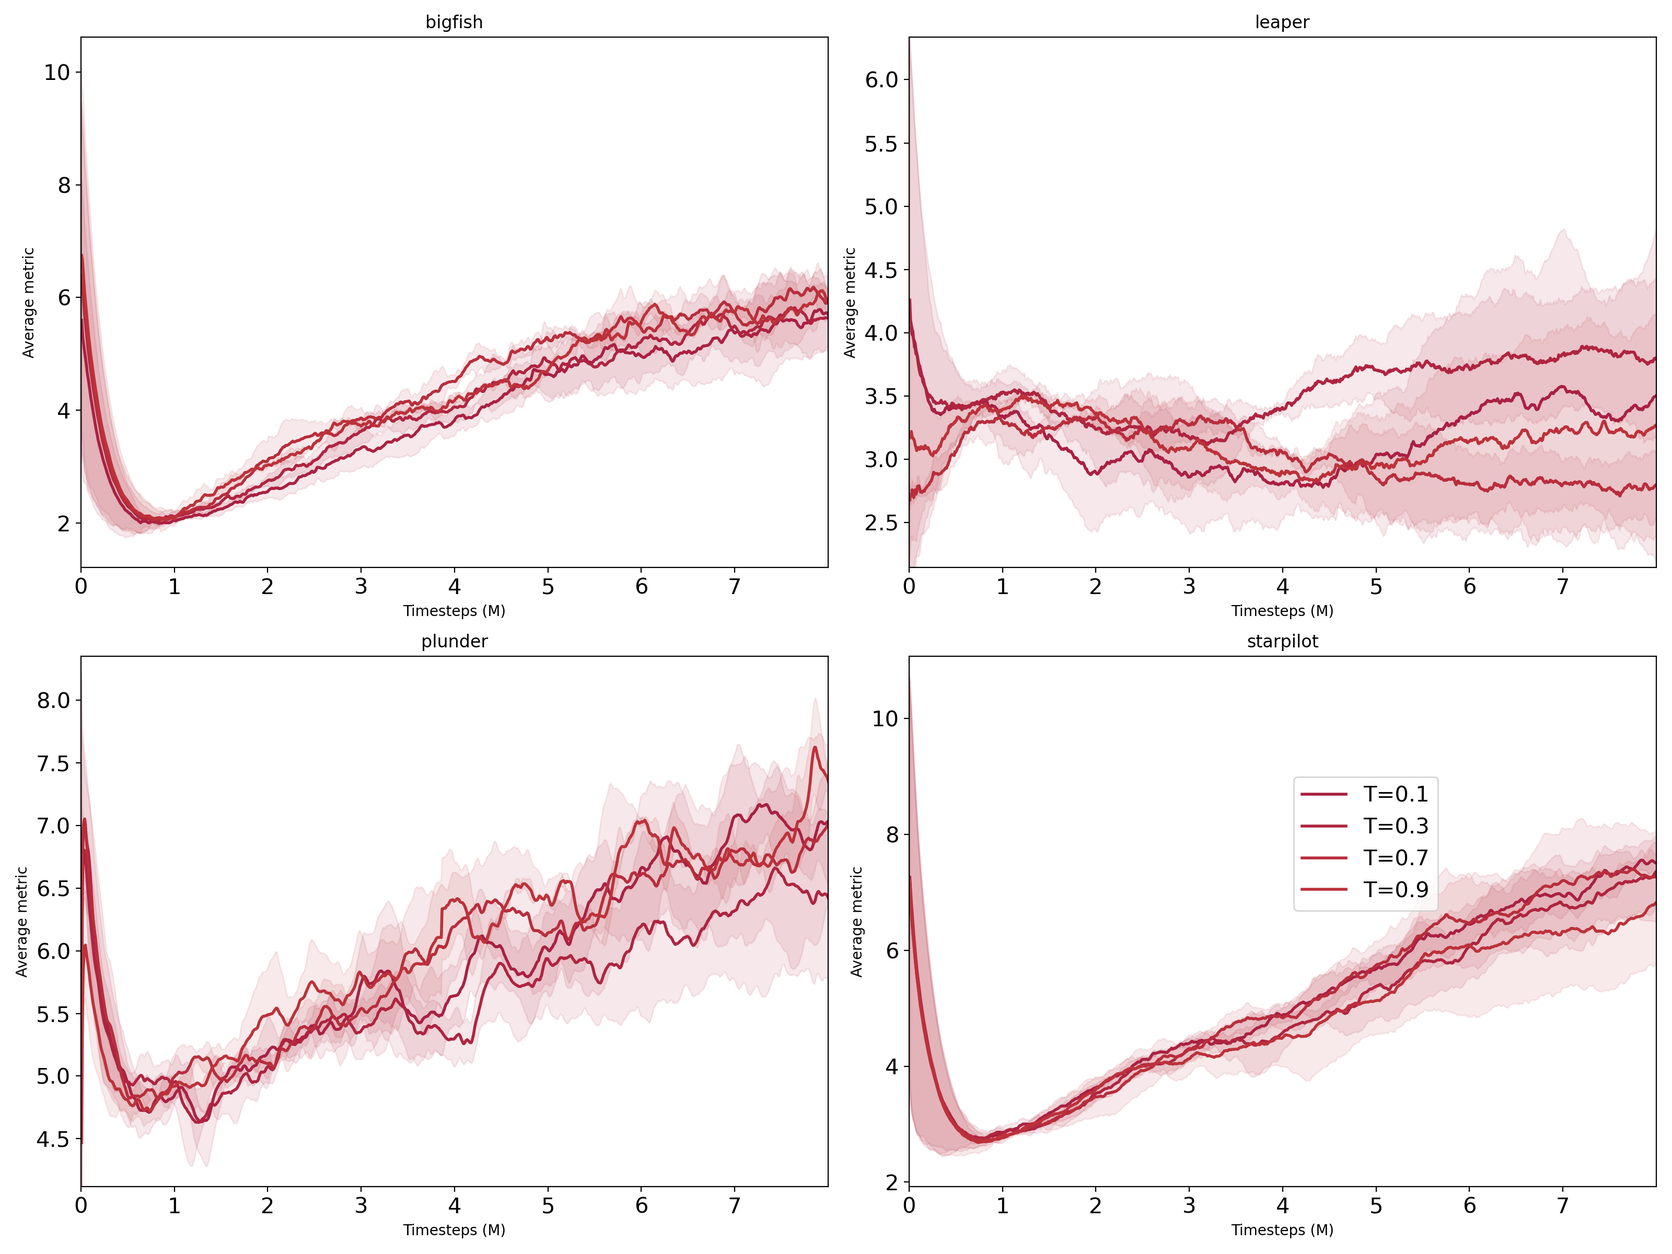
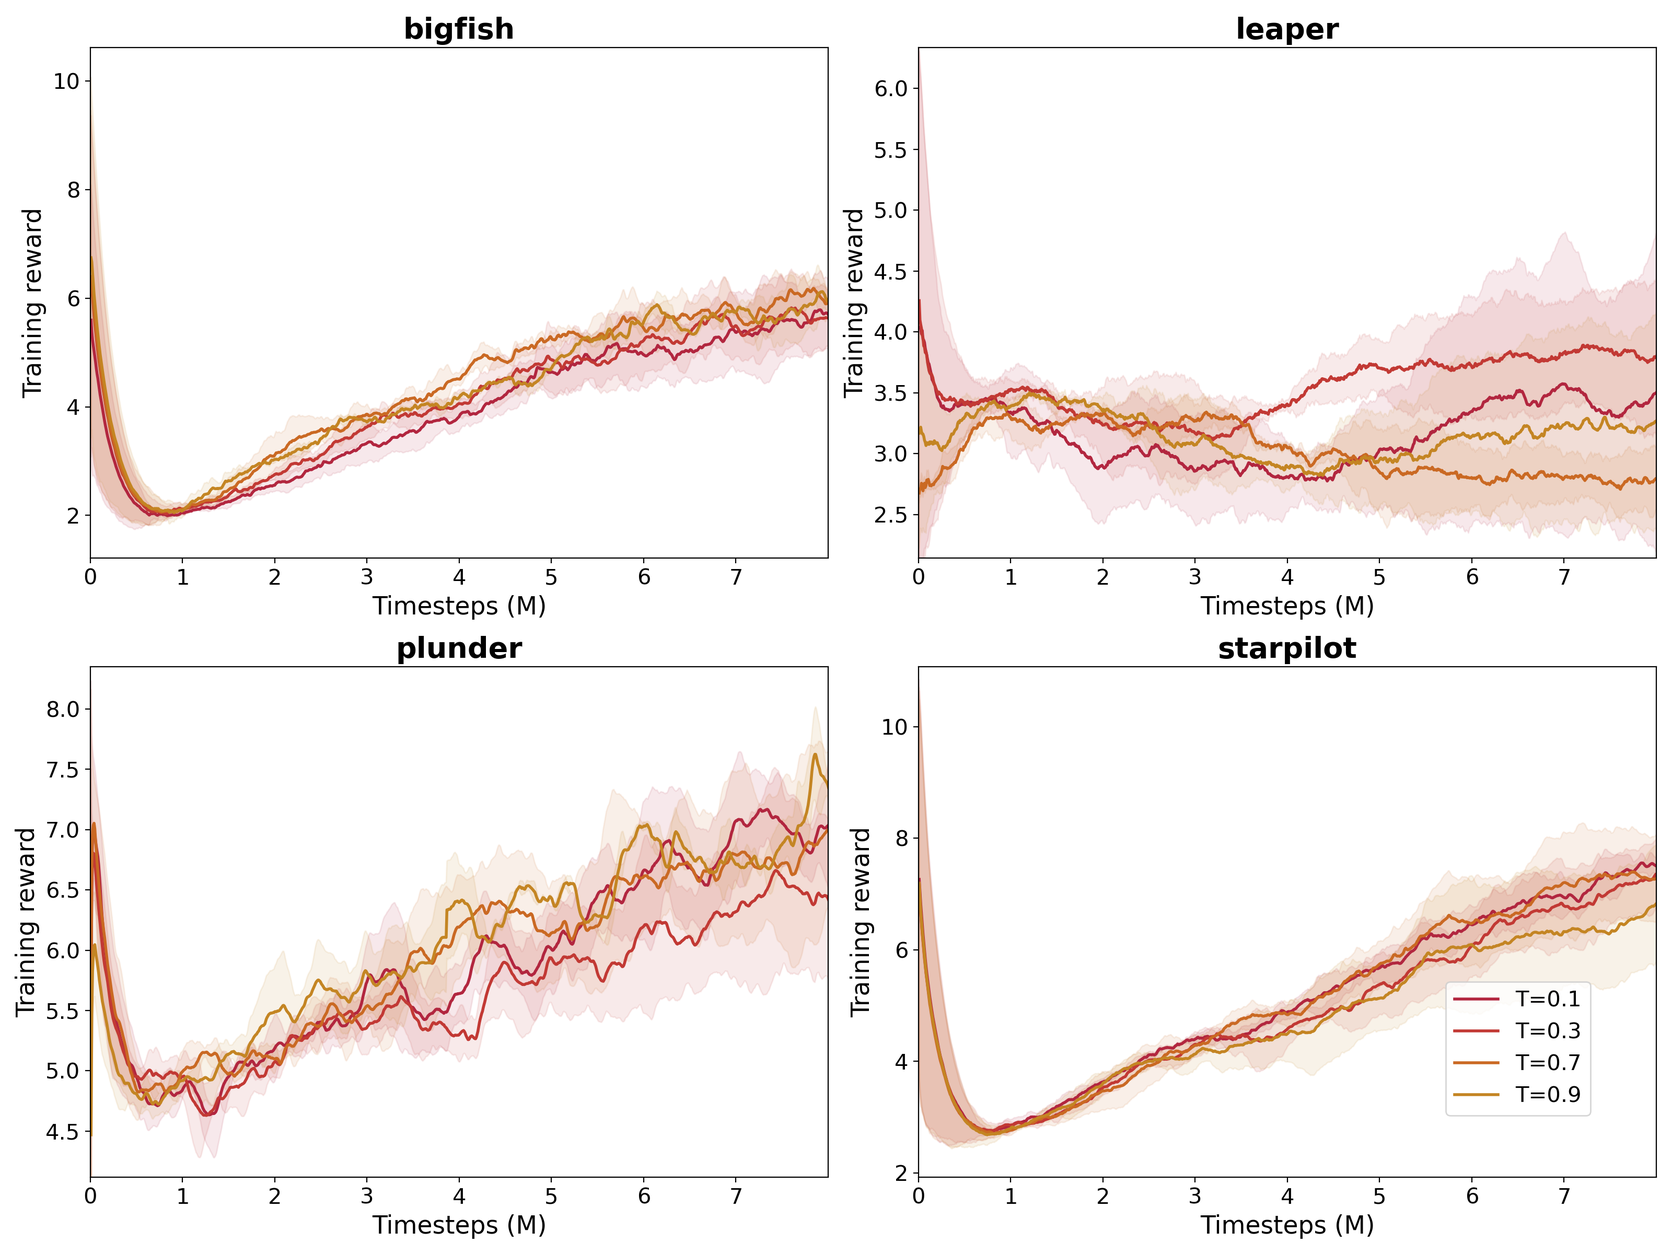
added in flag for joint update of RL + clustering + myow

diff --git a/coinrun/coinrun/ppo2_goal_bogdan.py b/coinrun/coinrun/ppo2_goal_bogdan.py
@@ -376,42 +376,57 @@ class Model(object):
 
         # joint sinkhorn+myow works bad
 
-        if Config.SYNC_FROM_ROOT:
-            trainer = MpiAdamOptimizer(MPI.COMM_WORLD, learning_rate=LR, epsilon=1e-5)
-            trainer_aux = MpiAdamOptimizer(MPI.COMM_WORLD, learning_rate=3e-3, epsilon=1e-5)
-            trainer_myow = MpiAdamOptimizer(MPI.COMM_WORLD, learning_rate=3e-3, epsilon=1e-5)
-        else:
-            trainer = tf.compat.v1.train.AdamOptimizer(learning_rate=LR, epsilon=1e-5)
         
-        self.opt = trainer
-        grads_and_var = trainer.compute_gradients(loss, params)
-        grads, var = zip(*grads_and_var)
-        if max_grad_norm is not None:
-            grads, _grad_norm = tf.clip_by_global_norm(grads, max_grad_norm)
-        grads_and_var = list(zip(grads, var))
-        tot_norm = tf.zeros((1,))
-        for g,v in grads_and_var:
-            tot_norm += tf.norm(g)
-        tot_norm = tf.reshape(tot_norm, [])
-        _train = trainer.apply_gradients(grads_and_var)
+        if Config.JOINT_SKRL:
+            trainer = MpiAdamOptimizer(MPI.COMM_WORLD, learning_rate=LR, epsilon=1e-5)
+            aux_loss = proto_loss + myow_loss
+            loss =  pg_loss - entropy * ent_coef + vf_loss * vf_coef + l2_loss * Config.L2_WEIGHT + beta * info_loss + aux_loss*Config.REP_LOSS_WEIGHT
+            grads_and_var = trainer.compute_gradients(loss, params)
+            grads, var = zip(*grads_and_var)
+            if max_grad_norm is not None:
+                grads, _grad_norm = tf.clip_by_global_norm(grads, max_grad_norm)
+            grads_and_var = list(zip(grads, var))
+            tot_norm = tf.zeros((1,))
+            for g,v in grads_and_var:
+                tot_norm += tf.norm(g)
+            tot_norm = tf.reshape(tot_norm, [])
+            _train = trainer.apply_gradients(grads_and_var)
+        else:
+            if Config.SYNC_FROM_ROOT:
+                trainer = MpiAdamOptimizer(MPI.COMM_WORLD, learning_rate=LR, epsilon=1e-5)
+                trainer_aux = MpiAdamOptimizer(MPI.COMM_WORLD, learning_rate=3e-3, epsilon=1e-5)
+                trainer_myow = MpiAdamOptimizer(MPI.COMM_WORLD, learning_rate=3e-3, epsilon=1e-5)
+            else:
+                trainer = tf.compat.v1.train.AdamOptimizer(learning_rate=LR, epsilon=1e-5)
+
+            grads_and_var = trainer.compute_gradients(loss, params)
+            grads, var = zip(*grads_and_var)
+            if max_grad_norm is not None:
+                grads, _grad_norm = tf.clip_by_global_norm(grads, max_grad_norm)
+            grads_and_var = list(zip(grads, var))
+            tot_norm = tf.zeros((1,))
+            for g,v in grads_and_var:
+                tot_norm += tf.norm(g)
+            tot_norm = tf.reshape(tot_norm, [])
+            _train = trainer.apply_gradients(grads_and_var)
 
 
 
-        grads_and_var_aux = trainer_aux.compute_gradients(aux_loss, params)
-        grads_aux, var_aux = zip(*grads_and_var_aux)
-        if max_grad_norm is not None:
-            grads_aux, _grad_norm_aux = tf.clip_by_global_norm(grads_aux, max_grad_norm)
-        grads_and_var_aux = list(zip(grads_aux, var_aux))
-        _train_aux = trainer_aux.apply_gradients(grads_and_var_aux)
+            grads_and_var_aux = trainer_aux.compute_gradients(aux_loss, params)
+            grads_aux, var_aux = zip(*grads_and_var_aux)
+            if max_grad_norm is not None:
+                grads_aux, _grad_norm_aux = tf.clip_by_global_norm(grads_aux, max_grad_norm)
+            grads_and_var_aux = list(zip(grads_aux, var_aux))
+            _train_aux = trainer_aux.apply_gradients(grads_and_var_aux)
 
 
 
-        grads_and_var_myow = trainer_myow.compute_gradients(myow_loss, params)
-        grads_myow, var_myow = zip(*grads_and_var_myow)
-        if max_grad_norm is not None:
-            grads_myow, _grad_norm_myow = tf.clip_by_global_norm(grads_myow, max_grad_norm)
-        grads_and_var_myow = list(zip(grads_myow, var_myow))
-        _train_myow = trainer_myow.apply_gradients(grads_and_var_myow)
+            grads_and_var_myow = trainer_myow.compute_gradients(myow_loss, params)
+            grads_myow, var_myow = zip(*grads_and_var_myow)
+            if max_grad_norm is not None:
+                grads_myow, _grad_norm_myow = tf.clip_by_global_norm(grads_myow, max_grad_norm)
+            grads_and_var_myow = list(zip(grads_myow, var_myow))
+            _train_myow = trainer_myow.apply_gradients(grads_and_var_myow)
 
         
         
@@ -452,6 +467,11 @@ class Model(object):
                         [proto_loss, myow_loss, train_model.codes, _train_myow],
                         td_map
                     )[:-1]
+            elif train_target=='skrl':
+                return sess.run(
+                        [pg_loss, vf_loss, entropy, approxkl_train, clipfrac_train, approxkl_run, clipfrac_run, l2_loss, info_loss, vf_loss_i, proto_loss, train_model.codes, train_model.R_I_SCALE, myow_loss, _train],
+                        td_map
+                    )[:-1], adv_ratio
             
         self.loss_names = ['policy_loss', 'value_loss', 'policy_entropy', 'approxkl_train', 'clipfrac_train', 'approxkl_run', 'clipfrac_run', 'l2_loss', 'info_loss_cv', 'value_i_loss', "cluster_loss","myow_loss", 'gradient_norm']
 
@@ -848,77 +868,101 @@ def learn(*, policy, env, eval_env, nsteps, total_timesteps, ent_coef, lr,
         myow_loss_res = 0.
         cluster_loss_res = 0.
         r_i_scale = 0.
-        print('Clustering phase')
-        for _ in range(E_clustering):
-            np.random.shuffle(rep_inds)
-            inds_2d = np.random.uniform(size=(Config.NUM_STEPS)).argsort()
-            for start in range(0, Config.NUM_STEPS, N_BATCH_AUX):
-                print('Minibatch clustering ',start)
-                sess.run([model.train_model.train_dropout_assign_ops])
-                end = min(start + N_BATCH_AUX, Config.NUM_STEPS)
-                mbinds = inds_2d[start:end]
-                slices = (arr[mbinds] for arr in (sf01(rep_obs), sf01(returns[:,representation_idx]), sf01(returns_i[:,representation_idx]), sf01(masks[:,representation_idx]), sf01(actions[:,representation_idx]), sf01(values[:,representation_idx]), sf01(values_i[:,representation_idx]), sf01(skill[:,representation_idx]), sf01(neglogpacs[:,representation_idx])))
+        total_adv_ratio = 0.
 
-                obs_subsampled_cluster = sf01(repeat_first_el(rep_obs[:,representation_idx][mbinds],CLUSTER_T)) #rep_obs.reshape(-1,64,64,3)[mbinds]
-                act_subsampled_cluster = sf01(repeat_first_el(actions[:,representation_idx][mbinds],CLUSTER_T))
-                r_cluster = returns[:,representation_idx].reshape(-1)[mbinds]
-                v_cluster = values[:,representation_idx].reshape(-1)[mbinds]
-                
-                # h_shape=sess.run([model.train_model.h_shape],{model.train_model.REP_PROC:obs_subsampled_cluster})
-                cluster_loss_res, mb_Q, proto_ce_loss, r_i_scale = model.train(lrnow, cliprangenow, states_nce, anchors_nce, labels_nce, obs_subsampled_cluster,act_subsampled_cluster,r_cluster, curr_step, *slices, train_target='clustering')
-                if BOLZTMANN_PROTO_SKILL_SELECTION:
-                    cluster_returns = np.zeros(Config.N_SKILLS)
-                    cluster_idx = mb_Q.argmax(1)
-                    for i in range(Config.N_SKILLS):
-                        cluster_returns[i] = np.mean( v_cluster.reshape(-1)* (cluster_idx==i)*1 )
-                total_proto_ce_loss += proto_ce_loss
-        print('MYOW phase')
-        for _ in range(E_MYOW):
-            np.random.shuffle(rep_inds)
-            inds_2d = np.random.uniform(size=(Config.NUM_STEPS)).argsort()
-            for start in range(0, Config.NUM_STEPS, N_BATCH_AUX):
-                print('Minibatch MYOW ',start)
-                sess.run([model.train_model.train_dropout_assign_ops])
-                end = min(start + N_BATCH_AUX, Config.NUM_STEPS)
-                mbinds = inds_2d[start:end]
-                slices = (arr[mbinds] for arr in (sf01(rep_obs), sf01(returns[:,representation_idx]), sf01(returns_i[:,representation_idx]), sf01(masks[:,representation_idx]), sf01(actions[:,representation_idx]), sf01(values[:,representation_idx]), sf01(values_i[:,representation_idx]), sf01(skill[:,representation_idx]), sf01(neglogpacs[:,representation_idx])))
-
-                obs_subsampled_cluster = sf01(repeat_first_el(rep_obs[:,representation_idx][mbinds],CLUSTER_T)) #rep_obs.reshape(-1,64,64,3)[mbinds]
-                act_subsampled_cluster = sf01(repeat_first_el(actions[:,representation_idx][mbinds],CLUSTER_T))
-                r_cluster = returns[:,representation_idx].reshape(-1)[mbinds]
-                v_cluster = values[:,representation_idx].reshape(-1)[mbinds]
-
-                _, myow_loss_res, mb_Q = model.train(lrnow, cliprangenow, states_nce, anchors_nce, labels_nce, obs_subsampled_cluster,act_subsampled_cluster,r_cluster, curr_step, *slices, train_target='myow')
-
-        # compute proper intrinsic reward before PPO updates
-        if Config.INTRINSIC:
-            # compute log CE reward scaling
-            # scale_ce_i = np.log(1/total_proto_ce_loss + 1)
-            returns_i = runner.compute_intrinsic_returns(rewards_i, values_i.reshape(-1, Config.NUM_ENVS), last_values_i, masks.reshape(-1, Config.NUM_ENVS)).reshape(-1, Config.NUM_ENVS)
+        if Config.JOINT_SKRL:
+            print('joint RL + Clustering phase')
+            E_ppo = 3
+            for _ in range(E_ppo):
+                np.random.shuffle(rl_inds)
+                inds_2d = np.random.uniform(size=(Config.NUM_STEPS)).argsort()
+                for start in range(0, rl_set_len, nbatch_train):
+                    print('Minibatch RL ',start)
+                    sess.run([model.train_model.train_dropout_assign_ops])
+                    end = min(start + nbatch_train, rl_set_len)
+                    mbinds = rl_inds[start:end]
+                    slices = (arr[mbinds] for arr in (sf01(rl_obs), sf01(returns[:,rl_idx]), sf01(returns_i[:,rl_idx]), sf01(masks[:,rl_idx]), sf01(actions[:,rl_idx]), sf01(values[:,rl_idx]), sf01(values_i[:,rl_idx]), sf01(skill[:,rl_idx]), sf01(neglogpacs[:,rl_idx])))
+                    # import ipdb;ipdb.set_trace()
+                    obs_subsampled_cluster = sf01(rl_obs)[mbinds] #rep_obs.reshape(-1,64,64,3)[mbinds]
+                    act_subsampled_cluster = actions[:,rl_idx].reshape(-1)[mbinds]
+                    r_cluster = returns[:,rl_idx].reshape(-1)[mbinds]
+                    v_cluster = values[:,rl_idx].reshape(-1)[mbinds]
+                    res, adv_ratio = model.train(lrnow, cliprangenow, states_nce, anchors_nce, labels_nce, obs_subsampled_cluster,act_subsampled_cluster,r_cluster, curr_step, *slices, train_target='skrl')
+                    total_adv_ratio += adv_ratio
+                    value_i_loss, cluster_loss_res, mb_Q, r_i_scale, myow_loss_res = res[-5:]
+                    mblossvals.append(res[:-4])
         else:
-            returns_i = np.zeros_like(returns)
-        
-        total_adv_ratio = 0
+            print('Clustering phase')
+            for _ in range(E_clustering):
+                np.random.shuffle(rep_inds)
+                inds_2d = np.random.uniform(size=(Config.NUM_STEPS)).argsort()
+                for start in range(0, Config.NUM_STEPS, N_BATCH_AUX):
+                    print('Minibatch clustering ',start)
+                    sess.run([model.train_model.train_dropout_assign_ops])
+                    end = min(start + N_BATCH_AUX, Config.NUM_STEPS)
+                    mbinds = inds_2d[start:end]
+                    slices = (arr[mbinds] for arr in (sf01(rep_obs), sf01(returns[:,representation_idx]), sf01(returns_i[:,representation_idx]), sf01(masks[:,representation_idx]), sf01(actions[:,representation_idx]), sf01(values[:,representation_idx]), sf01(values_i[:,representation_idx]), sf01(skill[:,representation_idx]), sf01(neglogpacs[:,representation_idx])))
 
-        print('RL phase')
-        for _ in range(E_ppo):
-            np.random.shuffle(rl_inds)
-            inds_2d = np.random.uniform(size=(Config.NUM_STEPS)).argsort()
-            for start in range(0, rl_set_len, nbatch_train):
-                print('Minibatch RL ',start)
-                sess.run([model.train_model.train_dropout_assign_ops])
-                end = min(start + nbatch_train, rl_set_len)
-                mbinds = rl_inds[start:end]
-                slices = (arr[mbinds] for arr in (sf01(rl_obs), sf01(returns[:,rl_idx]), sf01(returns_i[:,rl_idx]), sf01(masks[:,rl_idx]), sf01(actions[:,rl_idx]), sf01(values[:,rl_idx]), sf01(values_i[:,rl_idx]), sf01(skill[:,rl_idx]), sf01(neglogpacs[:,rl_idx])))
-                # import ipdb;ipdb.set_trace()
-                obs_subsampled_cluster = sf01(rl_obs)[mbinds] #rep_obs.reshape(-1,64,64,3)[mbinds]
-                act_subsampled_cluster = actions[:,rl_idx].reshape(-1)[mbinds]
-                r_cluster = returns[:,rl_idx].reshape(-1)[mbinds]
-                v_cluster = values[:,rl_idx].reshape(-1)[mbinds]
-                res, adv_ratio = model.train(lrnow, cliprangenow, states_nce, anchors_nce, labels_nce, obs_subsampled_cluster,act_subsampled_cluster,r_cluster, curr_step, *slices, train_target='policy')
-                total_adv_ratio += adv_ratio
-                value_i_loss, mb_Q = res[-2:]
-                mblossvals.append(res[:-1])
+                    obs_subsampled_cluster = sf01(repeat_first_el(rep_obs[:,representation_idx][mbinds],CLUSTER_T)) #rep_obs.reshape(-1,64,64,3)[mbinds]
+                    act_subsampled_cluster = sf01(repeat_first_el(actions[:,representation_idx][mbinds],CLUSTER_T))
+                    r_cluster = returns[:,representation_idx].reshape(-1)[mbinds]
+                    v_cluster = values[:,representation_idx].reshape(-1)[mbinds]
+                    
+                    # h_shape=sess.run([model.train_model.h_shape],{model.train_model.REP_PROC:obs_subsampled_cluster})
+                    cluster_loss_res, mb_Q, proto_ce_loss, r_i_scale = model.train(lrnow, cliprangenow, states_nce, anchors_nce, labels_nce, obs_subsampled_cluster,act_subsampled_cluster,r_cluster, curr_step, *slices, train_target='clustering')
+                    if BOLZTMANN_PROTO_SKILL_SELECTION:
+                        cluster_returns = np.zeros(Config.N_SKILLS)
+                        cluster_idx = mb_Q.argmax(1)
+                        for i in range(Config.N_SKILLS):
+                            cluster_returns[i] = np.mean( v_cluster.reshape(-1)* (cluster_idx==i)*1 )
+                    total_proto_ce_loss += proto_ce_loss
+            print('MYOW phase')
+            for _ in range(E_MYOW):
+                np.random.shuffle(rep_inds)
+                inds_2d = np.random.uniform(size=(Config.NUM_STEPS)).argsort()
+                for start in range(0, Config.NUM_STEPS, N_BATCH_AUX):
+                    print('Minibatch MYOW ',start)
+                    sess.run([model.train_model.train_dropout_assign_ops])
+                    end = min(start + N_BATCH_AUX, Config.NUM_STEPS)
+                    mbinds = inds_2d[start:end]
+                    slices = (arr[mbinds] for arr in (sf01(rep_obs), sf01(returns[:,representation_idx]), sf01(returns_i[:,representation_idx]), sf01(masks[:,representation_idx]), sf01(actions[:,representation_idx]), sf01(values[:,representation_idx]), sf01(values_i[:,representation_idx]), sf01(skill[:,representation_idx]), sf01(neglogpacs[:,representation_idx])))
+
+                    obs_subsampled_cluster = sf01(repeat_first_el(rep_obs[:,representation_idx][mbinds],CLUSTER_T)) #rep_obs.reshape(-1,64,64,3)[mbinds]
+                    act_subsampled_cluster = sf01(repeat_first_el(actions[:,representation_idx][mbinds],CLUSTER_T))
+                    r_cluster = returns[:,representation_idx].reshape(-1)[mbinds]
+                    v_cluster = values[:,representation_idx].reshape(-1)[mbinds]
+
+                    _, myow_loss_res, mb_Q = model.train(lrnow, cliprangenow, states_nce, anchors_nce, labels_nce, obs_subsampled_cluster,act_subsampled_cluster,r_cluster, curr_step, *slices, train_target='myow')
+
+            # compute proper intrinsic reward before PPO updates
+            if Config.INTRINSIC:
+                # compute log CE reward scaling
+                # scale_ce_i = np.log(1/total_proto_ce_loss + 1)
+                returns_i = runner.compute_intrinsic_returns(rewards_i, values_i.reshape(-1, Config.NUM_ENVS), last_values_i, masks.reshape(-1, Config.NUM_ENVS)).reshape(-1, Config.NUM_ENVS)
+            else:
+                returns_i = np.zeros_like(returns)
+            
+            
+
+            print('RL phase')
+            for _ in range(E_ppo):
+                np.random.shuffle(rl_inds)
+                inds_2d = np.random.uniform(size=(Config.NUM_STEPS)).argsort()
+                for start in range(0, rl_set_len, nbatch_train):
+                    print('Minibatch RL ',start)
+                    sess.run([model.train_model.train_dropout_assign_ops])
+                    end = min(start + nbatch_train, rl_set_len)
+                    mbinds = rl_inds[start:end]
+                    slices = (arr[mbinds] for arr in (sf01(rl_obs), sf01(returns[:,rl_idx]), sf01(returns_i[:,rl_idx]), sf01(masks[:,rl_idx]), sf01(actions[:,rl_idx]), sf01(values[:,rl_idx]), sf01(values_i[:,rl_idx]), sf01(skill[:,rl_idx]), sf01(neglogpacs[:,rl_idx])))
+                    # import ipdb;ipdb.set_trace()
+                    obs_subsampled_cluster = sf01(rl_obs)[mbinds] #rep_obs.reshape(-1,64,64,3)[mbinds]
+                    act_subsampled_cluster = actions[:,rl_idx].reshape(-1)[mbinds]
+                    r_cluster = returns[:,rl_idx].reshape(-1)[mbinds]
+                    v_cluster = values[:,rl_idx].reshape(-1)[mbinds]
+                    res, adv_ratio = model.train(lrnow, cliprangenow, states_nce, anchors_nce, labels_nce, obs_subsampled_cluster,act_subsampled_cluster,r_cluster, curr_step, *slices, train_target='policy')
+                    total_adv_ratio += adv_ratio
+                    value_i_loss, mb_Q = res[-2:]
+                    mblossvals.append(res[:-1])
         
         # mean normalized advantage over PPO updates
         mean_adv_ratio = total_adv_ratio / (nminibatches * E_ppo)
@@ -937,6 +981,10 @@ def learn(*, policy, env, eval_env, nsteps, total_timesteps, ent_coef, lr,
         print('Logging phase')
         if update % log_interval == 0 or update == 1:
             step = update*nbatch
+            mpi_print('rep weight', Config.REP_LOSS_WEIGHT)
+            # stop udpating sinkhorn and myow halfway through training
+            if Config.JOINT_SKRL and step > int(5e6):
+                Config.REP_LOSS_WEIGHT = 0
             eval_rew_mean = utils.process_ep_buf(eval_active_ep_buf, tb_writer=tb_writer, suffix='_eval', step=step)
             rew_mean_10 = utils.process_ep_buf(active_ep_buf, tb_writer=tb_writer, suffix='', step=step)
             ep_len_mean = np.nanmean([epinfo['l'] for epinfo in active_ep_buf])

diff --git a/coinrun/coinrun/wandb_scripts/A__ablation_hp.py b/coinrun/coinrun/wandb_scripts/A__ablation_hp.py
@@ -32,7 +32,11 @@ print('Groups:')
 print(df['group'].unique())
 print('#######################')
 
-metrics = ['eprew','eprew_eval','silhouette_score']
+# metrics = ['eprew','eprew_eval','silhouette_score']
+metrics = ['silhouette_score']
+clean_metric = {'eprew':'Training reward',
+                'eprew_eval':'Evaluation reward',
+                'silhouette_score': 'Silhouette score'}
 
 X_LEFT = 0
 X_RIGHT = 8e6
@@ -62,7 +66,7 @@ def gradient(x, rfactors, gfactors, bfactors):
 def set_run_attributes(sub_df):
     T = float(sub_df['temp'].unique()[-1])
     label = 'T=%.1f' %(T)
-    col = gradient(T/5, rp, gp, bp)
+    col = gradient(T/2.5, rp, gp, bp)
     return label, col, '-'
 
 for metric in metrics:
@@ -104,7 +108,7 @@ for metric in metrics:
             mu = smooth_df_mu[metric].to_numpy()
             std = smooth_df_std[metric].to_numpy()
             ax.plot(x,mu,color=np.array(col)/255.,label=HP_LABEL,linestyle=linestyle,linewidth=2)
-            ax.fill_between(x, mu-std, mu+std, alpha=0.1, color=np.array(col)/255.)
+            # ax.fill_between(x, mu-std, mu+std, alpha=0.1, color=np.array(col)/255.)
             max_y = max(max_y,(mu).max())
             min_y = min(min_y,(mu).min())
 
@@ -127,15 +131,15 @@ for metric in metrics:
             pass
         ax.set_xlim(X_LEFT,X_RIGHT)
         
-        ax.set_title(env_name)
-        ax.set_xlabel('Timesteps (M)')
-        ax.set_ylabel('Average metric')
+        ax.set_title(env_name,fontweight="bold",fontsize=20)
+        ax.set_xlabel('Timesteps (M)',fontsize=17)
+        ax.set_ylabel(clean_metric[metric],fontsize=17)
 
         handles, labels = ax.get_legend_handles_labels()
 
 
     plt.tight_layout()
-    plt.legend(handles,labels, loc='lower left', bbox_to_anchor=(0.5,0.5),prop={'size': 15}) # new_handles, new_labels,
+    plt.legend(handles,labels, loc='lower left', bbox_to_anchor=(0.7,0.1),prop={'size': 15}) # new_handles, new_labels,
     
     plt.savefig(os.path.join('..','wandb_plots','A__ablation_hp_'+metric+'.png'),dpi=200)
 

diff --git a/coinrun/coinrun/config.py b/coinrun/coinrun/config.py
@@ -83,6 +83,9 @@ class ConfigSingle(object):
         # Bool for using the custom representation loss, if the flag is passed then the loss will be used
         bool_keys.append(('rep_loss', 'custom_rep_loss'))
 
+        # Bool for using joint RL + sinkhorn update
+        bool_keys.append(('skrl', 'joint_skrl'))
+
         # Weighting value for the custom representation loss
         type_keys.append(('rep_lambda', 'rep_loss_weight', float, 0))
 
